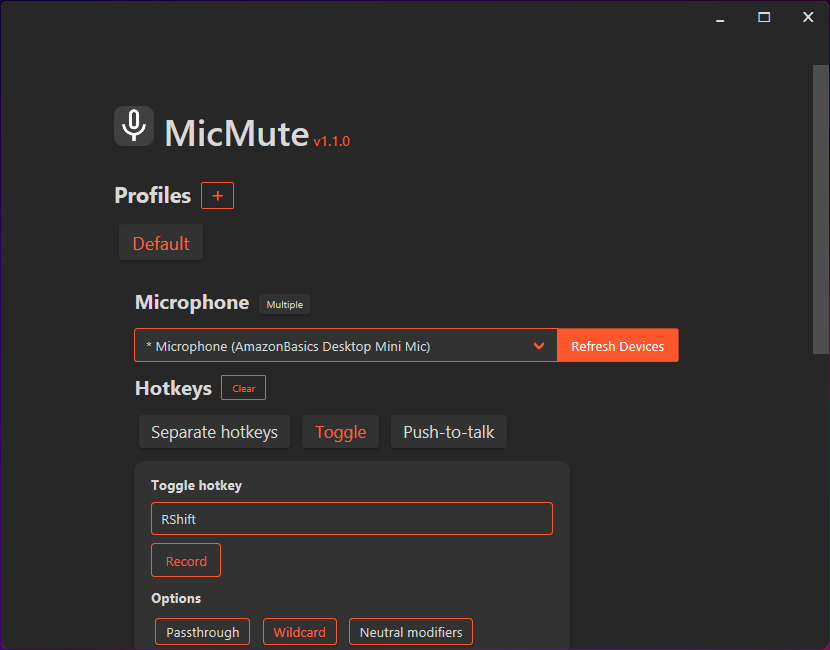
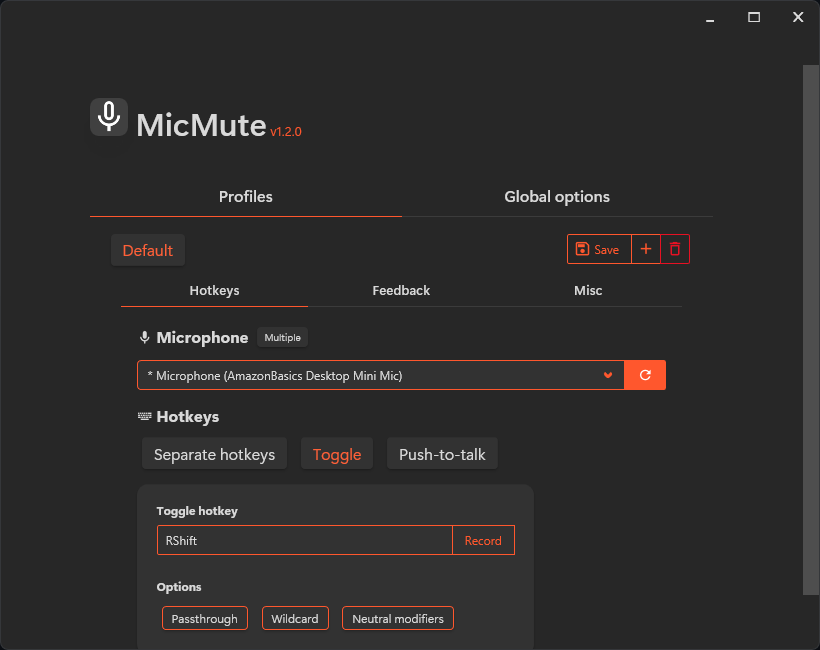
Update README.md + screenshots

diff --git a/README.md b/README.md
@@ -3,7 +3,7 @@
     MicMute
 </h1>
 <p align="center">
-    Control your microphone using keyboard shortcuts.
+    Control your microphone using keyboard and mouse hotkeys.
 </p>
 <p align="center">
     <a href="https://github.com/SaifAqqad/AHK_MicMute/releases/latest"><img src="https://img.shields.io/github/v/release/SaifAqqad/AHK_MicMute?color=FF5B20&label=latest&logo=github&style=for-the-badge"></a>
@@ -16,10 +16,13 @@
    * Set up multiple profiles and link them to apps/games
    * Control multiple microphones simultaneously 
    * Use separate hotkeys for Mute/Unmute or a single toggle/push-to-talk hotkey
-   * Optional sound and on-screen feedback with ability to use custom sounds
    * AFK timeout (auto mute when idling for longer than a specific time interval)
+   * Optional sound and on-screen feedback with ability to use custom sounds
+   * Always-on-top overlay to show the microphone's state
 
 ## Installation
+<sub>Note: Starting with [version 1.1.1](https://github.com/SaifAqqad/AHK_MicMute/releases/tag/1.1.1), `MicMute.exe` is 64-bit only.</sub>
+
 ### A. Install using [Scoop](https://scoop.sh)
 
 ```powershell
@@ -43,11 +46,11 @@ scoop install micmute
 2. Choose the hotkey type (Toggle, Push-to-talk or seperate hotkeys).
 3. Select the hotkey options you want. see [hotkey options](#hotkey-options).
 4. Click Record and press the key(s) combination for the hotkey, then click on Stop to save it.
-5. Select the feedback options you want. see [feedback options](#feedback-options).
+5. Go to the `Feedback` tab and select the feedback options you want. see [feedback options](#feedback-options).
 6. If you're setting up multiple profiles, you can link a profile to an app/game. see [linked applications](#linked-applications).
-7. If you want the microphone to be auto muted when you idle, type the amount of minutes to wait under AFK timeout.
-8. If you're setting up a PTT hotkey, you can change the delay between releasing the key and the audio cutting off by changing the PTT delay option.
-9. Click on Save profile.
+7. If you want the microphone to be auto muted when you idle, setup `AFK timeout`.
+8. If you're setting up a PTT hotkey, you can change the delay between releasing the key and the audio cutting off by changing the `PTT delay` option.
+9. Click on the save button.
 
 ### Notes
 * You can change a profile's name by right clicking it.
@@ -65,17 +68,32 @@ scoop install micmute
 
 ### Feedback options
 #### 1. Sound feedback
-Play a sound when muting/unmuting the microphones. You can also use [custom sounds](#1-custom-sounds).
+Play a sound when muting/unmuting the microphones.
+* You can select which output device to play the sound on.
+
+* You can use custom sounds:
+   1. Turn on the option in the config UI
+   2. Make sure the sound files (`mp3`,`wav`) are in the same folder as `MicMute.exe`
+   3. Rename them as:
+        * **Mute sound**: `mute` 
+
+        * **Unmute sound**: `unmute` 
+
+        * **PTT on**: `ptt_on` 
+
+        * **PTT off**: `ptt_off`
+
+
 #### 2. On-screen feedback
 Show an OSD when muting/unmuting the microphones. 
 
-* You can change the OSD position (default position is the bottom center of the screen, above the taskbar).
-* You can exclude fullscreen apps/games from the OSD, this is needed for some games that lose focus when the OSD is shown.
 * <details>
   <summary>GIF</summary>
 
   ![OSD](./src/resources/OSD.gif)
   </details>
+* You can change the OSD position (default position is the bottom center of the screen, above the taskbar).
+* You can exclude fullscreen apps/games from the OSD, this is needed for some games that lose focus when the OSD is shown.
 
 #### 3. On-screen overlay
 Show the microphone's state in an always-on-top overlay.
@@ -104,22 +122,11 @@ Link a profile to an app/game, when the app is launched, MicMute automatically s
 
 ### Global options
 These options are shared between all profiles.
-#### 1. Custom sounds
- To use custom feedback sounds, turn on the option in the config UI, then make sure the sound files (`mp3`,`wav`) are in the same folder as `MicMute.exe` and rename them as:
-
-* **Mute sound**: `mute` 
-
-* **Unmute sound**: `unmute` 
-
-* **PTT on**: `ptt_on` 
-
-* **PTT off**: `ptt_off`
-
-#### 2. Mute on startup
-Mute the profile's microphones when switching to it.
-#### 3. Switching-profile OSD
+#### 1. Mute on startup
+Mute the microphone(s) when starting up or switching profiles.
+#### 2. Switching-profile OSD
 Show an OSD with the profile's name when switching to it.
-#### 4. UI Theme
+#### 3. UI Theme
 UI Theme can be set to `System Theme`, `Dark` or `Light`
 
 <small>This does *not* affect the tray icon color, which is always based on the system theme</small>
@@ -132,9 +139,9 @@ To do this, toggle the `Multiple` option then select another microphone from the
 When using this feature, the following applies:
 
 * The tray icon will be the static MicMute icon
-* The tray icon no longer acts as a toggle button, and the tray menu option to toggle the microphone is disabled.
+* The tray icon will no longer act as a toggle button, and the tray menu option to toggle the microphone will be disabled.
 * The [On-screen feedback](#2-on-screen-feedback) OSD will show the microphone name when muting/unmuting
-* The [On-screen overlay]() is disabled
+* The [On-screen overlay](#3-on-screen-overlay) is disabled
 <hr>
 
 ## Known issues
@@ -142,7 +149,7 @@ When using this feature, the following applies:
 
 * [Albion Online](https://albiononline.com/en/home) detects MicMute as a botting tool, the games blacklists anything written in autohotkey and marks it as a botting tool. [#23](https://github.com/SaifAqqad/AHK_MicMute/issues/23)
 
-* Windows defender might falsely detect MicMute as a trojen/malware (`Zpevdo.B` or ML detections). I always submit new releases to microsoft to remove the false detections and they usually do in a couple of days, but sometimes when they release a new definition update the detection occurs again. [#25](https://github.com/SaifAqqad/AHK_MicMute/issues/25)
+* Windows defender might falsely detect MicMute as a trojen/malware (`Zpevdo.B` or `Wacatac.B!ml`). I always submit new releases to microsoft to remove the false detections and they usually do in a couple of days, but sometimes when they release a new definition update the detection occurs again. [#25](https://github.com/SaifAqqad/AHK_MicMute/issues/25)
  
 
 ## Editing the config file
@@ -151,21 +158,21 @@ When using this feature, the following applies:
 ```json
 //config.json example 
 {
-    "AllowUpdateChecker": 1,
+    "AllowUpdateChecker": 0,
     "DefaultProfile": "Default",
-    "MuteOnStartup": 0,
+    "MuteOnStartup": 1,
     "PreferTheme": -1,
     "Profiles": [
         {
-            "afkTimeout": 0,
+            "afkTimeout": 2,
             "ExcludeFullscreen": 0,
             "LinkedApp": "",
             "Microphone": [
                 {
-                    "MuteHotkey": "*RShift",
+                    "MuteHotkey": "~*RShift",
                     "Name": "Microphone (AmazonBasics Desktop Mini Mic)",
                     "PushToTalk": 0,
-                    "UnmuteHotkey": "*RShift"
+                    "UnmuteHotkey": "~*RShift"
                 }
             ],
             "OnscreenFeedback": 0,
@@ -176,18 +183,19 @@ When using this feature, the following applies:
             },
             "OverlayOnMuteOnly": 0,
             "OverlayPos": {
-                "x": 300,
-                "y": 450
+                "x": 2486,
+                "y": 387
             },
             "OverlayUseCustomIcons": 0,
             "ProfileName": "Default",
-            "PTTDelay": 100,
+            "PTTDelay": 50,
             "SoundFeedback": 1,
+            "SoundFeedbackDevice": "Default",
+            "SoundFeedbackUseCustomSounds": 0,
             "UpdateWithSystem": 1
         }
     ],
-    "SwitchProfileOSD": 1,
-    "UseCustomSounds": 0
+    "SwitchProfileOSD": 1
 }
 ```
 
@@ -201,16 +209,16 @@ When using this feature, the following applies:
 
 Example: `MicMute.exe "/profile=profile 1" /noUI /debug /logFile=MicMute.log`
 ## Compile instructions
-<small>Note: Starting with version [0.9.0](https://github.com/SaifAqqad/AHK_MicMute/releases/tag/0.9.0), You can run `MicMute.ahk` directly without compiling it.</small>
+<small>Note: Run the following commands in powershell, not command prompt.</small>
 
 ### 1. Install prerequisites
-You'll need [AutoHotkey](https://www.autohotkey.com/) and [git](https://git-scm.com/download/win).
+You'll need [AutoHotkey (Ahk2Exe)](https://www.autohotkey.com/) and [git](https://git-scm.com/download/win) in your path.
 
 You can install them using [scoop](https://scoop.sh):
 
 1. Install scoop 
     ```powershell
-    # This allows running powershell scripts that are signed by a trusted publisher.
+    # This allows running powershell scripts.
     Set-ExecutionPolicy RemoteSigned -scope CurrentUser;
 
     # This runs the scoop installer script.
@@ -218,27 +226,43 @@ You can install them using [scoop](https://scoop.sh):
     ```
 2. Install prerequisites
     ```powershell
+    scoop install git;
     scoop bucket add extras;
-    scoop install git autohotkey;
+    scoop install autohotkey;
     ```
 ### 2. Clone the repository (and submodules)
     
 ```powershell
 git clone --recurse-submodules https://github.com/SaifAqqad/AHK_MicMute.git;
+cd .\AHK_MicMute\;
 ```
-### 3. Run the compiler
+
+If you had already cloned the repository without submodules, Run the following command:
 
 ```powershell
-cd .\AHK_MicMute\;
-ahk2exe /in ".\src\MicMute.ahk" /out ".\src\MicMute.exe";
+git submodule update --init --recursive;
+```
+
+### 3. Download and extract BASS library
+```powershell
+Invoke-WebRequest "www.un4seen.com/files/bass24.zip" -OutFile ".\bass24.zip";
+Expand-Archive ".\bass24.zip" -DestinationPath ".\base24\";
+Copy-Item ".\base24\x64\bass.dll" -Destination ".\src\Lib\bass.dll";
+```
+
+### 4. Run the compiler
+
+```powershell
+ahk2exe.exe /in ".\src\MicMute.ahk" /out ".\src\MicMute.exe";
 ```
 
 ## Libraries and resources used
 
 | Library                                                               | License                                                                        |
 |-----------------------------------------------------------------------|--------------------------------------------------------------------------------|
-| [G33kDude/Neutron.ahk](https://github.com/G33kDude/Neutron.ahk)       | [MIT](https://github.com/G33kDude/Neutron.ahk/blob/master/LICENSE)             |
-| [G33kDude/cJson.ahk](https://github.com/G33kDude/cJson.ahk)           | [MIT](https://github.com/G33kDude/cJson.ahk/blob/main/LICENSE)                 |
-| [Bulma CSS framework](https://bulma.io/)                              | [MIT](https://github.com/jgthms/bulma/blob/master/LICENSE)                     |
-| [Lexikos/VA.ahk](https://github.com/ahkscript/VistaAudio)             | [License](https://github.com/ahkscript/VistaAudio/blob/master/LICENSE)         |
 | [Material Design icons](https://github.com/Templarian/MaterialDesign) | [Apache 2.0](https://github.com/Templarian/MaterialDesign/blob/master/LICENSE) |
+| [BASS audio library](https://www.un4seen.com)                         | [License](https://www.un4seen.com/#license)                                    |
+| [Lexikos/VA.ahk](https://github.com/ahkscript/VistaAudio)             | [License](https://github.com/ahkscript/VistaAudio/blob/master/LICENSE)         |
+| [Bulma CSS framework](https://bulma.io/)                              | [MIT](https://github.com/jgthms/bulma/blob/master/LICENSE)                     |
+| [G33kDude/cJson.ahk](https://github.com/G33kDude/cJson.ahk)           | [MIT](https://github.com/G33kDude/cJson.ahk/blob/main/LICENSE)                 |
+| [G33kDude/Neutron.ahk](https://github.com/G33kDude/Neutron.ahk)       | [MIT](https://github.com/G33kDude/Neutron.ahk/blob/master/LICENSE)             |
